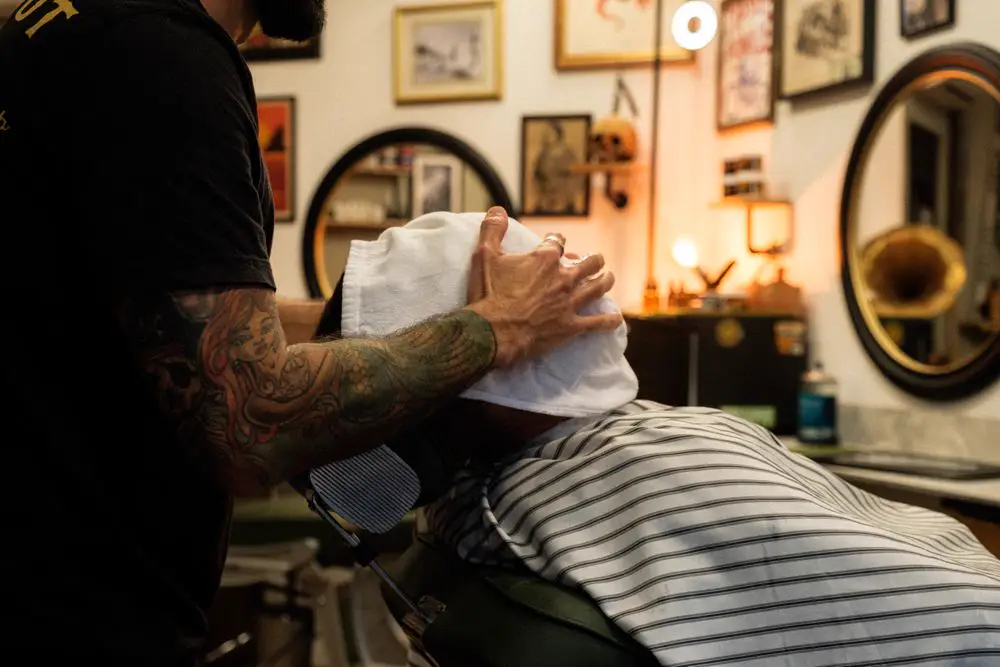
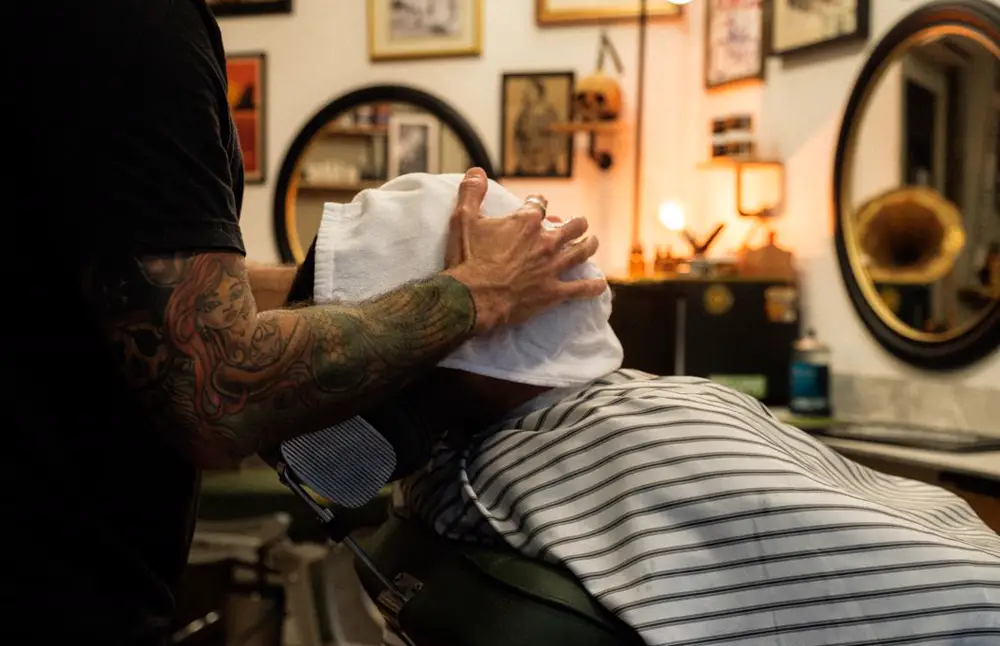
fix: ajustes do revisor na landing da barbearia (fotos sem marcas, equipe e endereço marcados como fictícios)

diff --git a/src/pages/exemplos/BarbeariaMove.tsx b/src/pages/exemplos/BarbeariaMove.tsx
@@ -4,7 +4,7 @@ import { gsap } from "gsap";
 import { ScrollTrigger } from "gsap/ScrollTrigger";
 import { useSeo } from "@/hooks/use-page-title";
 import { SEO } from "@/lib/seo";
-import { WHATSAPP_URL } from "@/lib/contato";
+import { WHATSAPP_NUMBER } from "@/lib/contato";
 import { WhatsAppIcon } from "@/components/ui/WhatsAppIcon";
 import { PalavraCabelo, type PalavraCabeloHandle } from "@/components/barbearia/PalavraCabelo";
 import { CampoDegrade, PENTES } from "@/components/barbearia/cabelo";
@@ -18,26 +18,27 @@ import "./barbearia-move.css";
 // Fotos do Pexels (licença gratuita com uso comercial), em public/img/barbearia/:
 //   cadeira        Sofía Marquet              pexels.com/photo/18173343
 //   salao          Pavel Danilyuk             pexels.com/photo/7518739
-//   poste-cafe     Maria Orlova               pexels.com/photo/4947554
+//   poste          Maria Orlova               pexels.com/photo/4947554
 //   fade-perfil    Brian Silva                pexels.com/photo/39559324
 //   fade-linha     Brian Silva                pexels.com/photo/39559270
 //   fade-maquina   Brian Silva                pexels.com/photo/39559262
-//   pente          Alexander Mass             pexels.com/photo/33461079
 //   toalha         Mathias Reding             pexels.com/photo/20405689
 //   cachos         Matheus Wladeka            pexels.com/photo/6487911
 //   navalha        Erik Mclean                pexels.com/photo/9456810
 //   ferramentas    RDNE Stock project         pexels.com/photo/7697490
 //   jorge          ENIO ENGENHEIRO            pexels.com/photo/39218966
 //   beto           alexandre saraiva carniato pexels.com/photo/5188606
-//   kaique         Mateus Cordeiro            pexels.com/photo/28208787
+//   kaique         Ben Khatry                 pexels.com/photo/20302331
+// Cadeira, poste, salão e toalha estão recortadas para não mostrar marca, letreiro ou rótulo de terceiros.
 
 gsap.registerPlugin(ScrollTrigger);
 
 const IMG = "/img/barbearia/";
 const FIM = "fim-do-exemplo";
+const WHATSAPP_EXEMPLO = `https://wa.me/${WHATSAPP_NUMBER}?text=${encodeURIComponent("Vim pelo exemplo da Barbearia Move")}`;
 
 const SERVICOS = [
-  { nome: "Corte", preco: 45, tempo: "40 min", nota: "Tesoura ou máquina, lavado e finalizado.", foto: "pente" },
+  { nome: "Corte", preco: 45, tempo: "40 min", nota: "Tesoura ou máquina, lavado e finalizado.", foto: "fade-perfil" },
   { nome: "Degradê", preco: 55, tempo: "50 min", nota: "Do pente 3 à navalha, sem degrau.", foto: "fade-linha" },
   { nome: "Barba com toalha quente", preco: 40, tempo: "30 min", nota: "Toalha, navalha e óleo no final.", foto: "toalha" },
   { nome: "Corte e barba", preco: 85, tempo: "1 h 10", nota: "A cadeira é sua por mais de uma hora.", foto: "navalha" },
@@ -46,9 +47,9 @@ const SERVICOS = [
 ];
 
 const EQUIPE = [
-  { nome: "Jorge", papel: "Dono. Abriu a casa e ainda pega a primeira cadeira.", foto: "jorge" },
-  { nome: "Beto", papel: "Barba e toalha quente. Conversa só se você quiser.", foto: "beto" },
-  { nome: "Kaique", papel: "Degradê e desenho. É ele que os meninos pedem.", foto: "kaique" },
+  { nome: "Jorge", papel: "Dono. Abriu a casa e ainda pega a primeira cadeira.", foto: "jorge", alt: "Homem de óculos e camisa azul segurando uma navalha" },
+  { nome: "Beto", papel: "Barba e toalha quente. Conversa só se você quiser.", foto: "beto", alt: "Homem de barba sorrindo, com uma tesoura na palma da mão" },
+  { nome: "Kaique", papel: "Degradê e desenho. É ele que os meninos pedem.", foto: "kaique", alt: "Homem de camisa branca e avental segurando uma tesoura" },
 ];
 
 const GALERIA = [
@@ -57,12 +58,12 @@ const GALERIA = [
   { foto: "cachos", nome: "Laterais baixas, cachos em cima" },
   { foto: "salao", nome: "A casa num sábado" },
   { foto: "fade-maquina", nome: "Máquina no acabamento" },
-  { foto: "pente", nome: "Pente e máquina no social" },
+  { foto: "ferramentas", nome: "Navalha, tesoura e pente" },
 ];
 
 const COMANDAS = [
   { n: "0412", item: "Degradê", valor: "R$ 55", texto: "Marquei às 16:40 e sentei na cadeira às 16:40. Nunca tinha visto isso em barbearia.", quem: "Diego, 29" },
-  { n: "0433", item: "Corte infantil", valor: "R$ 40", texto: "O Theo chorava em todo barbeiro. Aqui pediu para voltar na semana seguinte.", quem: "Patrícia, mãe do Theo" },
+  { n: "0433", item: "Corte", valor: "R$ 45", texto: "O Theo chorava em todo barbeiro. Aqui pediu para voltar na semana seguinte.", quem: "Patrícia, mãe do Theo" },
   { n: "0451", item: "Corte e barba", valor: "R$ 85", texto: "Vim pela barba e fiquei para o café. Agora volto de quinze em quinze dias.", quem: "Seu Antônio, 67" },
 ];
 
@@ -147,7 +148,7 @@ function Abertura() {
       <div className="bm-abertura-rodape">
         <div>
           <h1>Você senta de um jeito e levanta de outro.</h1>
-          <p>Barbearia Move: corte, barba e degradê com hora marcada, em Guarulhos.</p>
+          <p>Barbearia Move: corte, barba e degradê com hora marcada.</p>
         </div>
         <div className="bm-abertura-acao">
           <BotaoMarcar claro />
@@ -315,7 +316,7 @@ function Mapa() {
         <text x="290" y="176">Avenida da Ponte</text>
         <text x="418" y="326">Rua Exemplo</text>
         <text x="228" y="475">Rua do Pente</text>
-        <text transform="translate(514 300) rotate(90)">Rua da Tesoura</text>
+        <text transform="translate(514 345) rotate(90)">Rua da Tesoura</text>
       </g>
       <text x="598" y="356" fill="#F0E9DC" fontFamily="Inter, sans-serif" fontSize="16" fontWeight="600">Praça</text>
       {/* caminho */}
@@ -500,13 +501,13 @@ export default function BarbeariaMove() {
           <div className="bm-casa-texto">
             <h2 data-aparar>Três cadeiras e nenhuma pressa.</h2>
             <p data-sobe>
-              A Barbearia Move abriu em 2011 numa garagem da Vila Galvão. Hoje são três cadeiras vermelhas, café passado na hora e o jogo na TV quando tem jogo.
+              A Barbearia Move abriu em 2015. Hoje são três cadeiras vermelhas, café passado na hora e o jogo na TV quando tem jogo.
             </p>
             <p data-sobe>
-              Cada cliente fica 40 minutos na cadeira, porque é o tempo que um corte bem feito leva. Por isso a gente trabalha com hora marcada: você chega, senta e ninguém fica olhando o relógio.
+              Cada cliente tem a cadeira só para si, sem encaixe de outro em cima. Por isso a gente trabalha com hora marcada: você chega, senta e ninguém fica olhando o relógio.
             </p>
             <div className="bm-casa-menor" data-parallax="-14">
-              <FotoNavalha src="poste-cafe" alt="Poste de barbeiro na vitrine, com a máquina de café logo abaixo" />
+              <FotoNavalha src="poste" alt="Poste de barbeiro aceso na vitrine" />
             </div>
           </div>
         </section>
@@ -517,10 +518,11 @@ export default function BarbeariaMove() {
 
         <section className="bm-equipe" id="equipe">
           <h2 data-aparar>Quem segura a máquina</h2>
+          <p className="bm-equipe-aviso">Equipe fictícia. Fotos de banco; as pessoas não têm relação com a Move AI nem com a barbearia.</p>
           <div className="bm-equipe-grade">
             {EQUIPE.map((p, i) => (
               <article key={p.nome} className={`bm-barbeiro bm-barbeiro-${i}`} data-parallax={[-6, 5, -10][i]}>
-                <FotoNavalha src={p.foto} alt={`${p.nome}, barbeiro`} />
+                <FotoNavalha src={p.foto} alt={p.alt} />
                 <h3>{p.nome}</h3>
                 <p>{p.papel}</p>
               </article>
@@ -532,7 +534,7 @@ export default function BarbeariaMove() {
           <div className="bm-galeria-trilho" ref={trilho}>
             <div className="bm-galeria-abre">
               <h2 data-aparar>Saiu daqui.</h2>
-              <p>Alguns cortes da semana. Peça pelo nome ou mostre uma foto, que a gente diz se fica bom em você.</p>
+              <p>Alguns cortes de exemplo. Peça pelo nome ou mostre uma foto, que a gente diz se fica bom em você.</p>
             </div>
             {GALERIA.map((g, i) => (
               <figure key={g.foto} className={`bm-galeria-foto bm-galeria-foto-${i % 3}`}>
@@ -564,7 +566,8 @@ export default function BarbeariaMove() {
           <Mapa />
           <div className="bm-chegar-texto">
             <h2 data-aparar>Como chegar</h2>
-            <p className="bm-endereco">Rua Exemplo, 40<br />Vila Galvão, Guarulhos</p>
+            <p className="bm-endereco">Rua Exemplo, 40<br />Vila do Pente</p>
+            <p className="bm-endereco-aviso">(endereço fictício)</p>
             <p>Quem vem pela Avenida da Ponte entra na segunda à direita. O poste fica na calçada e dá para ver da esquina. Dá para parar na rua depois das 10h.</p>
             <table>
               <caption>Horário de funcionamento</caption>
@@ -593,16 +596,16 @@ export default function BarbeariaMove() {
         <div>
           <h2>Até aqui, tudo de mentira.</h2>
           <p>
-            A Barbearia Move não existe. Nomes, preços, endereço e depoimentos foram inventados, e o botão de marcar horário só traz você até aqui. O site é de verdade: foi a Move AI que fez, e faz um assim para a sua empresa.
+            A Barbearia Move não existe. Nomes, preços, endereço e depoimentos foram inventados, e o botão de marcar horário só traz você até aqui. O site é de verdade: foi a Move AI que fez, e a gente faz um site para a sua empresa, do tamanho que ela precisa.
           </p>
         </div>
         <div className="bm-fim-acoes">
-          <a href={WHATSAPP_URL} target="_blank" rel="noopener noreferrer" className="bm-botao">
+          <a href={WHATSAPP_EXEMPLO} target="_blank" rel="noopener noreferrer" className="bm-botao">
             <span className="bm-botao-listras" aria-hidden="true" />
             <span className="bm-botao-txt"><WhatsAppIcon className="bm-icone" /> Falar com a Move AI</span>
           </a>
           <Link to="/" className="bm-link">Voltar para o site da Move AI</Link>
-          <p className="bm-creditos">Fotos do Pexels: Sofía Marquet, Pavel Danilyuk, Maria Orlova, Brian Silva, Alexander Mass, Mathias Reding, Matheus Wladeka, Erik Mclean, RDNE Stock project, ENIO ENGENHEIRO, alexandre saraiva carniato e Mateus Cordeiro. As pessoas das fotos não têm relação com esta barbearia inventada.</p>
+          <p className="bm-creditos">Fotos do Pexels: Sofía Marquet, Pavel Danilyuk, Maria Orlova, Brian Silva, Mathias Reding, Matheus Wladeka, Erik Mclean, RDNE Stock project, ENIO ENGENHEIRO, alexandre saraiva carniato e Ben Khatry. As pessoas das fotos não têm relação com esta barbearia inventada.</p>
         </div>
       </footer>
 

diff --git a/src/pages/exemplos/barbearia-move.css b/src/pages/exemplos/barbearia-move.css
@@ -153,6 +153,7 @@
 /* equipe */
 .bm-equipe { padding: clamp(72px, 10vw, 160px) var(--margem) clamp(72px, 12vw, 200px); padding-right: max(var(--margem), 40px); }
 .bm-equipe h2 { max-width: 9em; }
+.bm-equipe-aviso { margin-top: 16px; max-width: 36em; font-size: 16px; }
 .bm-equipe-grade { display: grid; gap: 40px; margin-top: 48px; }
 .bm-barbeiro .bm-foto { aspect-ratio: 4 / 5; }
 .bm-barbeiro img { filter: grayscale(1) contrast(1.06); transition: filter 320ms ease-out; }
@@ -214,8 +215,9 @@
 /* como chegar */
 .bm-chegar { display: grid; gap: 36px; padding: clamp(72px, 10vw, 150px) var(--margem); padding-right: max(var(--margem), 40px); }
 .bm-mapa { display: block; width: 100%; height: auto; }
-.bm-endereco { font-family: var(--display); font-size: clamp(24px, 2.6vw, 38px); line-height: 1.08; margin: 22px 0 16px; }
-.bm-chegar-texto > p:not(.bm-endereco) { max-width: 32em; }
+.bm-endereco { font-family: var(--display); font-size: clamp(24px, 2.6vw, 38px); line-height: 1.08; margin: 22px 0 4px; }
+.bm-endereco-aviso { margin: 0 0 16px; font-weight: 600; }
+.bm-chegar-texto > p:not(.bm-endereco, .bm-endereco-aviso) { max-width: 32em; }
 .bm-chegar table { margin: 24px 0 28px; border-collapse: collapse; width: 100%; max-width: 440px; }
 .bm-chegar caption { text-align: left; font-weight: 600; padding-bottom: 8px; }
 .bm-chegar th, .bm-chegar td { text-align: left; font-weight: 400; padding: 9px 0; border-top: 2px solid var(--osso-2); }
